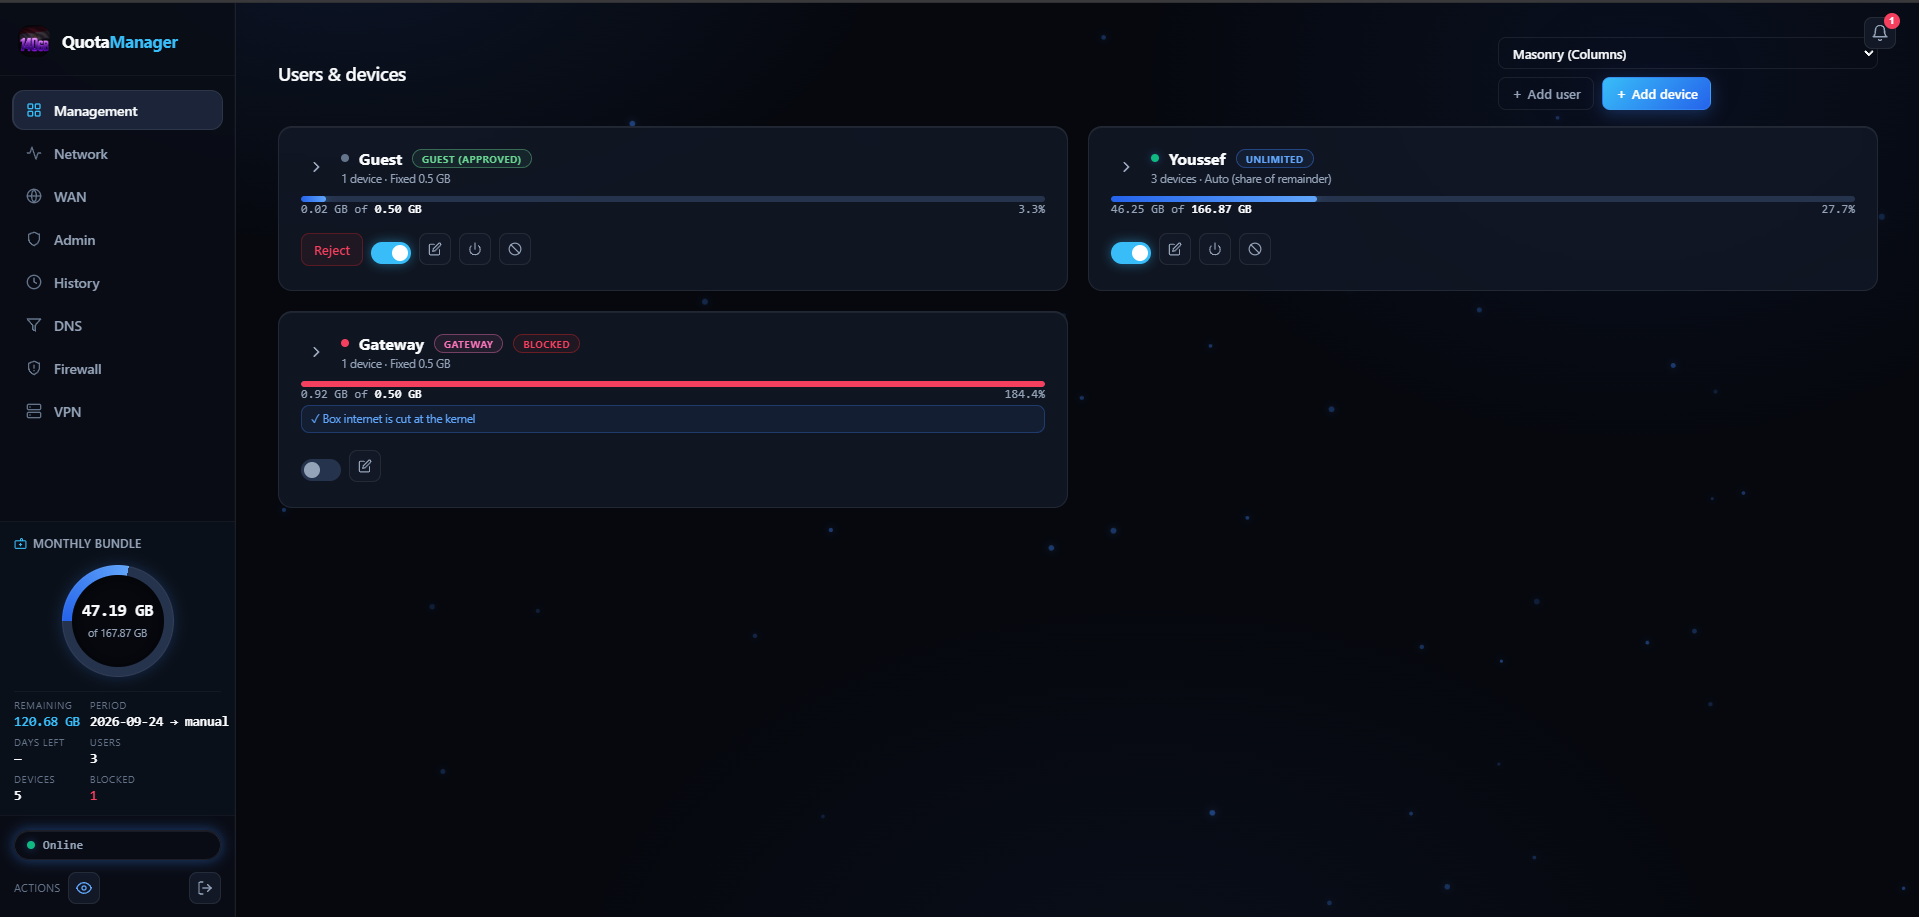
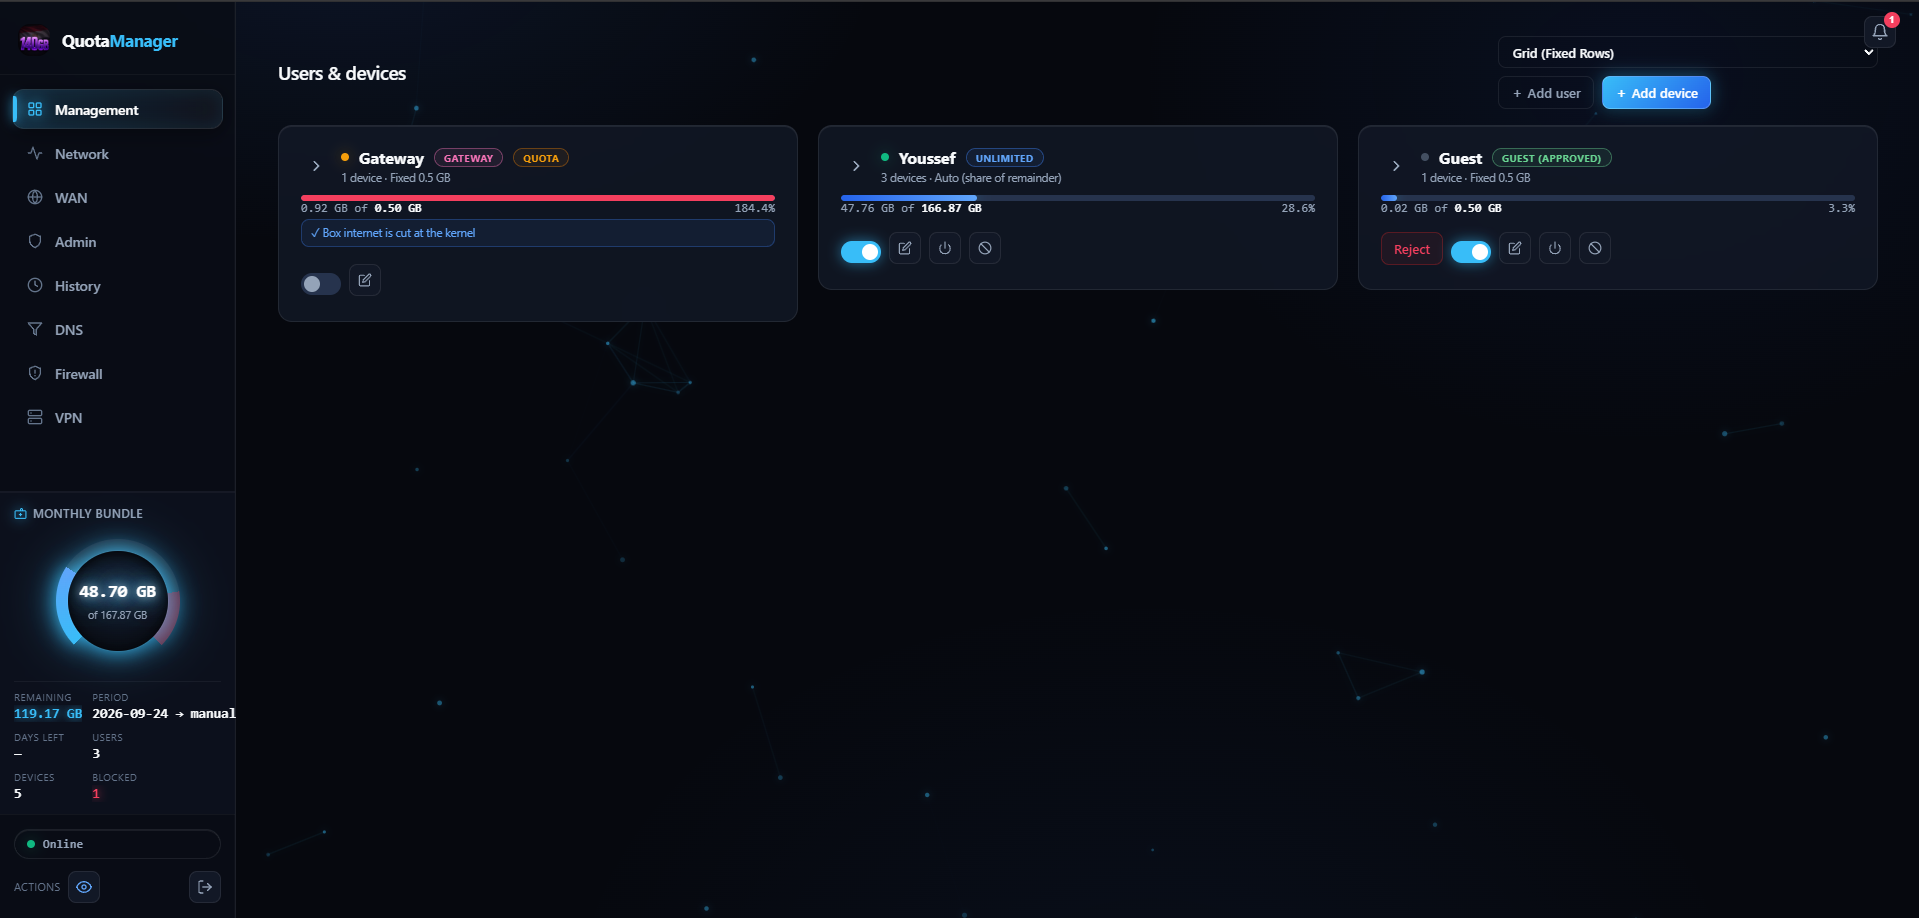
ui: only show loading animation on initial fetch; instant tab transitions once loaded

diff --git a/web/assets/app.js b/web/assets/app.js
@@ -791,6 +791,37 @@ function updateNavIndicator(panelName) {
   indicator.style.opacity = "1";
 }
 
+const loadedPanels = new Set();
+
+function isPanelContentLoaded(name) {
+  if (loadedPanels.has(name)) return true;
+  if (name === "management") {
+    return !!(dashboard && dashboard.bundle);
+  }
+  if (name === "network") {
+    return !!(dashboard && dashboard.network);
+  }
+  if (name === "wan") {
+    return !!wanStatus;
+  }
+  if (name === "firewall") {
+    return !!fwStatus;
+  }
+  if (name === "history") {
+    return !!historyCache;
+  }
+  if (name === "dns") {
+    return !!dnsStatusCache;
+  }
+  if (name === "vpn") {
+    return !!vpnStatusCache;
+  }
+  if (name === "admin") {
+    return Array.isArray(logLines) && logLines.length > 0;
+  }
+  return false;
+}
+
 async function switchPanel(name) {
   try { localStorage.setItem("quota_active_panel", name); } catch (_) { /* ignore */ }
   document.querySelectorAll(".nav-tab").forEach((b) =>
@@ -799,9 +830,15 @@ async function switchPanel(name) {
   document.querySelectorAll(".nav-panel").forEach((p) =>
     p.classList.toggle("hidden", p.id !== `panel-${name}`));
 
+  const isLoaded = isPanelContentLoaded(name);
   const seq = ++activePanelLoadSeq;
-  showPanelPopup(name);
-  const startTime = Date.now();
+  let startTime = 0;
+
+  // Only display the loading popup if the panel has not loaded its content yet
+  if (!isLoaded) {
+    showPanelPopup(name);
+    startTime = Date.now();
+  }
 
   try {
     if (name === "admin") {
@@ -817,24 +854,29 @@ async function switchPanel(name) {
     } else if (name === "dns") {
       await refreshDns();
     } else if (name === "vpn") {
-      await refreshVpn();
+      await refreshVpn(!isLoaded);
       startVpnLogPolling();
     } else if (name === "management") {
       await refreshAll();
     }
+    loadedPanels.add(name);
   } catch (err) {
     console.warn("Panel refresh notice:", err);
   } finally {
     if (name !== "vpn") {
       stopVpnLogPolling();
     }
-    const elapsed = Date.now() - startTime;
-    const remaining = Math.max(0, 240 - elapsed);
-    setTimeout(() => {
-      if (seq === activePanelLoadSeq) {
-        hidePanelPopup();
-      }
-    }, remaining);
+    if (!isLoaded) {
+      const elapsed = Date.now() - startTime;
+      const remaining = Math.max(0, 240 - elapsed);
+      setTimeout(() => {
+        if (seq === activePanelLoadSeq) {
+          hidePanelPopup();
+        }
+      }, remaining);
+    } else {
+      hidePanelPopup();
+    }
   }
 }
 
@@ -1339,7 +1381,7 @@ function dnsQuickActions(domain, deviceId) {
 let historyAnalyticsCache = null;
 let currentHistoryView = "apps";
 
-async function refreshHistory() {
+async function refreshHistory(showLoading = false) {
   const sel = $("hist-device");
   syncHistoryDeviceSelect();
   const id = sel.value;   // "all" (household) or a device id string
@@ -1353,11 +1395,14 @@ async function refreshHistory() {
   const loading = $("hist-loading");
   const empty = $("hist-empty");
   const statCards = $("hist-stat-cards");
+  const isFirstLoad = !historyCache;
 
-  if (loading) loading.classList.remove("hidden");
-  if (empty) empty.classList.add("hidden");
-  document.querySelectorAll(".hist-view").forEach((v) => v.classList.add("hidden"));
-  if (statCards) statCards.classList.add("loading-dim");
+  if ((showLoading || isFirstLoad) && loading) {
+    loading.classList.remove("hidden");
+    if (empty) empty.classList.add("hidden");
+    document.querySelectorAll(".hist-view").forEach((v) => v.classList.add("hidden"));
+    if (statCards) statCards.classList.add("loading-dim");
+  }
 
   try {
     const raw = await API.get(`/api/history/${id}?window=${windowHours}&limit=200`);

diff --git a/web/index.html b/web/index.html
@@ -1853,6 +1853,6 @@
     </div>
   </div>
 
-    <script src="/assets/app.js?v=86"></script>
+    <script src="/assets/app.js?v=87"></script>
 </body>
 </html>

diff --git a/tests/test_web_ui.py b/tests/test_web_ui.py
@@ -100,7 +100,7 @@ def test_index_served(client):
     assert 'id="bundle-used"' in r.text
     assert r.text.index('id="sidebar-bundle"') < r.text.index('id="panel-management"')
     assert 'id="usage-chart"' not in r.text
-    assert "assets/app.js?v=86" in r.text
+    assert "assets/app.js?v=87" in r.text
     assert "assets/styles.css?v=70" in r.text
     # v24: the sidebar collapse toggle is gone — the sidebar is a fixed rail.
     assert "sidebar-toggle" not in r.text
@@ -357,5 +357,5 @@ def test_history_assets_bumped(client):
     always checks the CURRENT baseline, not the original bump."""
     r = client.get("/")
     assert "assets/styles.css?v=70" in r.text
-    assert "assets/app.js?v=86" in r.text
+    assert "assets/app.js?v=87" in r.text
 
